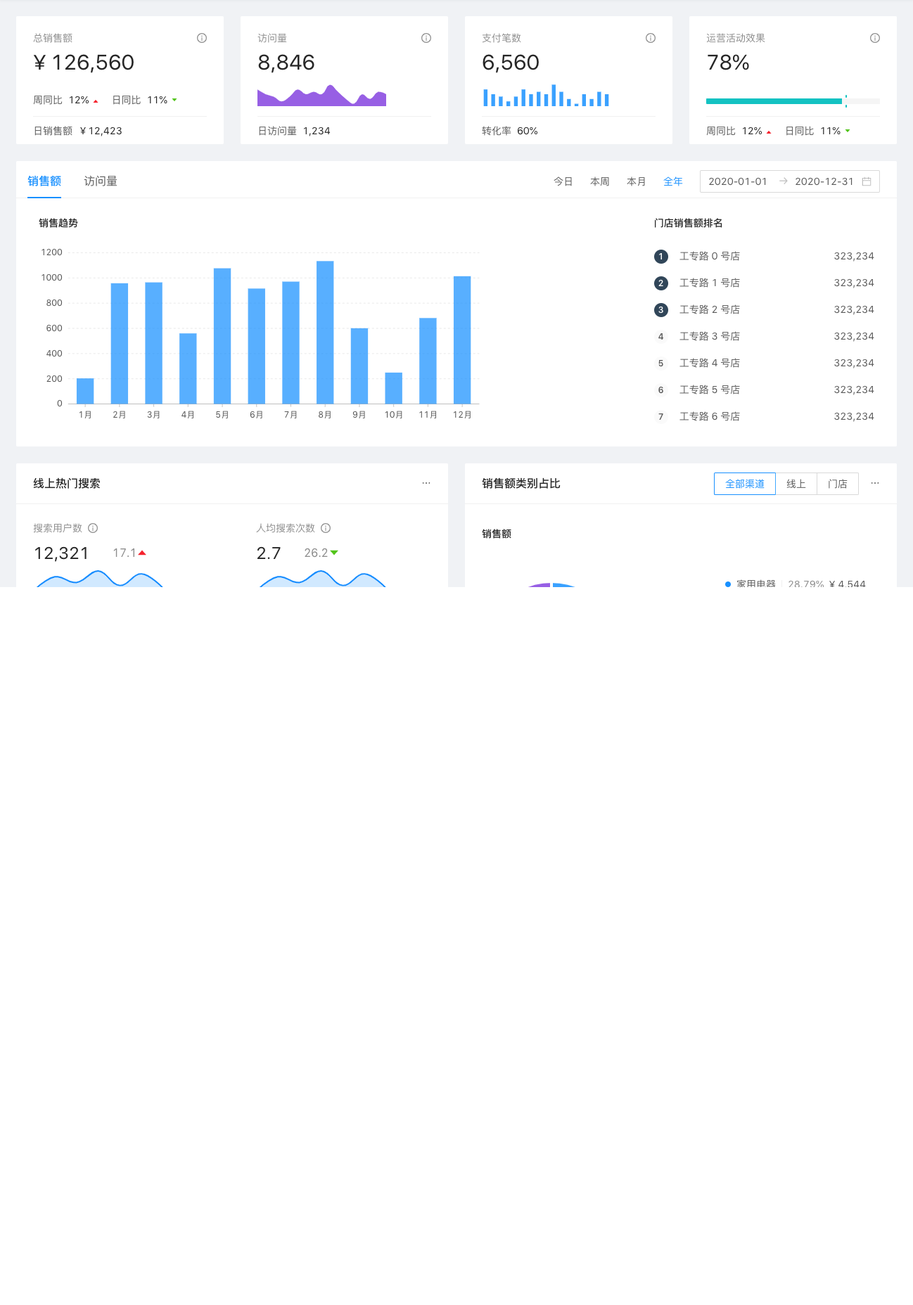
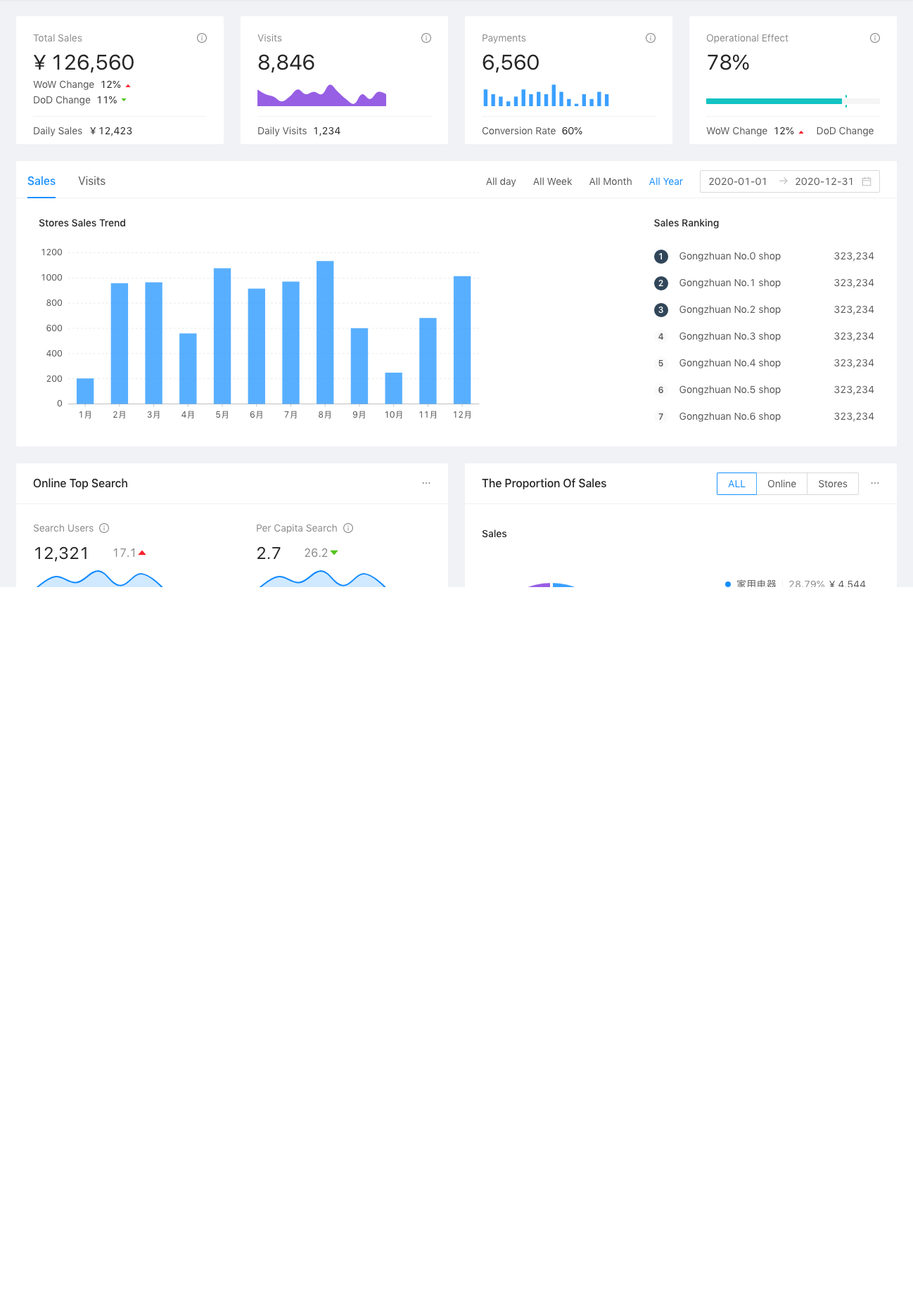
manual

diff --git a/src/service/fallback/umi-fallback.js b/src/service/fallback/umi-fallback.js
@@ -13,7 +13,11 @@ export default {
       "tags": [
         "空白页"
       ],
-      "previewUrl": "https://preview.pro.ant.design"
+      "previewUrl": "https://preview.pro.ant.design",
+      "__HASH__": [
+        "https://derek-hu.github.io/store/screenshots/umijs/0_a7c581ac.png"
+      ],
+      "__DESCRIPTION__": "Total Sales ¥ 126,560 WoW Change12%DoD Change11% Daily Sales￥12,423 Visits 8,846 Daily Visits1,234 Payments 6,560 Conversion Rate60% Operational Effect 78% WoW Change12%DoD Change11% All dayAll WeekAll MonthAll Year → SalesVisits Stores Sales Trend Sales Ranking 1 Gongzhuan No.0 shop 323,234 2 Gongzhuan No.1 shop 323,234 3 Gongzhuan No.2 shop 323,234 4 Gongzhuan No.3 shop 323,234 5 Gongzhuan No.4 shop 323,234 6 Gongzhuan No.5 shop 323,234 7 Gongzhuan No.6 shop 323,234 Online Top Search Search Users 12,32117.1 Per Capita Search 2.726.2 Rank Keyword Users Weekly Range 1 搜索关键词-0 596 56% 2 搜索关键词-1 647 47% 3 搜索关键词-2 260 16% 4 搜索关键词-3 97 16% 5 搜索关键词-4 582 52% 1 2 3 4 5 ••• 10 The Proportion Of Sales ALL Online Stores Sales Sales ¥ 15,781 家用电器28.79% ¥ 4,544 食用酒水21.04% ¥ 3,321 个护健康19.73% ¥ 3,113 服饰箱包14.83% ¥ 2,341 母婴产品7.80% ¥ 1,231 其他7.80% ¥ 1,231 Stores 0 Conversion Rate 40% Stores 1 Conversion Rate 70% Stores 2 Conversion Rate 10% Stores 3 Conversion Rate 30% Stores 4 Conversion Rate 30% Stores 5 Conversion Rate 10% Stores 6 Conversion Rate 60% Stores 7 Conversion Rate 80% Stores 8 Conversion Rate 90% Stores 9 Conversion Rate 40%"
     },
     {
       "name": "个人中心",
@@ -29,7 +33,11 @@ export default {
       "tags": [
         "个人中心"
       ],
-      "previewUrl": "https://preview.pro.ant.design/account/center"
+      "previewUrl": "https://preview.pro.ant.design/account/center",
+      "__HASH__": [
+        "https://derek-hu.github.io/store/screenshots/umijs/1_368ff13a.png"
+      ],
+      "__DESCRIPTION__": "Serati Ma 海纳百川，有容乃大 交互专家 蚂蚁金服－某某某事业群－某某平台部－某某技术部－UED 浙江省杭州市 标签 很有想法的专注设计辣~大长腿川妹子海纳百川 团队 科学搬砖组 全组都是吴彦祖 中二少女团 程序员日常 高逼格设计天团 骗你来学计算机 文章 (8)应用 (8)项目 (8) Alipay Ant Design设计语言蚂蚁金服 段落示意：蚂蚁金服设计平台 ant.design，用最小的工作量，无缝接入蚂蚁金服生态，提供跨越设计与开发的体验解决方案。蚂蚁金服设计平台 ant.design，用最小的工作量，无缝接入蚂蚁金服生态，提供跨越设计与开发的体验解决方案。 付小小 发布在 https://ant.design2020-03-29 23:08 149 165 13 Angular Ant Design设计语言蚂蚁金服 段落示意：蚂蚁金服设计平台 ant.design，用最小的工作量，无缝接入蚂蚁金服生态，提供跨越设计与开发的体验解决方案。蚂蚁金服设计平台 ant.design，用最小的工作量，无缝接入蚂蚁金服生态，提供跨越设计与开发的体验解决方案。 曲丽丽 发布在 https://ant.design2020-03-29 21:08 171 125 18 Ant Design Ant Design设计语言蚂蚁金服 段落示意：蚂蚁金服设计平台 ant.design，用最小的工作量，无缝接入蚂蚁金服生态，提供跨越设计与开发的体验解决方案。蚂蚁金服设计平台 ant.design，用最小的工作量，无缝接入蚂蚁金服生态，提供跨越设计与开发的体验解决方案。 林东东 发布在 https://ant.design2020-03-29 19:08 133 109 13 Ant Design Pro Ant Design设计语言蚂蚁金服 段落示意：蚂蚁金服设计平台 ant.design，用最小的工作量，无缝接入蚂蚁金服生态，提供跨越设计与开发的体验解决方案。蚂蚁金服设计平台 ant.design，用最小的工作量，无缝接入蚂蚁金服生态，提供跨越设计与开发的体验解决方案。 周星星 发布在 https://ant.design2020-03-29 17:08 178 127 19 Bootstrap Ant Design设计语言蚂蚁金服 段落示意：蚂蚁金服设计平台 ant.design，用最小的工作量，无缝接入蚂蚁金服生态，提供跨越设计与开发的体验解决方案。蚂蚁金服设计平台 ant.design，用最小的工作量，无缝接入蚂蚁金服生态，提供跨越设计与开发的体验解决方案。 吴加好 发布在 https://ant.design2020-03-29 15:08 184 131 14 React Ant Design设计语言蚂蚁金服 段落示意：蚂蚁金服设计平台 ant.design，用最小的工作量，无缝接入蚂蚁金服生态，提供跨越设计与开发的体验解决方案。蚂蚁金服设计平台 ant.design，用最小的工作量，无缝接入蚂蚁金服生态，提供跨越设计与开发的体验解决方案。 朱偏右 发布在 https://ant.design2020-03-29 13:08 109 105 19 Vue Ant Design设计语言蚂蚁金服 段落示意：蚂蚁金服设计平台 ant.design，用最小的工作量，无缝接入蚂蚁金服生态，提供跨越设计与开发的体验解决方案。蚂蚁金服设计平台 ant.design，用最小的工作量，无缝接入蚂蚁金服生态，提供跨越设计与开发的体验解决方案。 鱼酱 发布在 https://ant.design2020-03-29 11:08 179 186 12 Webpack Ant Design设计语言蚂蚁金服 段落示意：蚂蚁金服设计平台 ant.design，用最小的工作量，无缝接入蚂蚁金服生态，提供跨越设计与开发的体验解决方案。蚂蚁金服设计平台 ant.design，用最小的工作量，无缝接入蚂蚁金服生态，提供跨越设计与开发的体验解决方案。 乐哥 发布在 https://ant.design2020-03-29 09:08 144 106 11 Alipay Ant Design设计语言蚂蚁金服 段落示意：蚂蚁金服设计平台 ant.design，用最小的工作量，无缝接入蚂蚁金服生态，提供跨越设计与开发的体验解决方案。蚂蚁金服设计平台 ant.design，用最小的工作量，无缝接入蚂蚁金服生态，提供跨越设计与开发的体验解决方案。 谭小仪 发布在 https://ant.design2020-03-29 07:08 178 134 14 Angular Ant Design设计语言蚂蚁金服 段落示意：蚂蚁金服设计平台 ant.design，用最小的工作量，无缝接入蚂蚁金服生态，提供跨越设计与开发的体验解决方案。蚂蚁金服设计平台 ant.design，用最小的工作量，无缝接入蚂蚁金服生态，提供跨越设计与开发的体验解决方案。 仲尼 发布在 https://ant.design2020-03-29 05:08 133 191 13 Ant Design Ant Design设计语言蚂蚁金服 段落示意：蚂蚁金服设计平台 ant.design，用最小的工作量，无缝接入蚂蚁金服生态，提供跨越设计与开发的体验解决方案。蚂蚁金服设计平台 ant.design，用最小的工作量，无缝接入蚂蚁金服生态，提供跨越设计与开发的体验解决方案。 付小小 发布在 https://ant.design2020-03-29 03:08 151 128 11 Ant Design Pro Ant Design设计语言蚂蚁金服 段落示意：蚂蚁金服设计平台 ant.design，用最小的工作量，无缝接入蚂蚁金服生态，提供跨越设计与开发的体验解决方案。蚂蚁金服设计平台 ant.design，用最小的工作量，无缝接入蚂蚁金服生态，提供跨越设计与开发的体验解决方案。 曲丽丽 发布在 https://ant.design2020-03-29 01:08 121 117 16 Bootstrap Ant Design设计语言蚂蚁金服 段落示意：蚂蚁金服设计平台 ant.design，用最小的工作量，无缝接入蚂蚁金服生态，提供跨越设计与开发的体验解决方案。蚂蚁金服设计平台 ant.design，用最小的工作量，无缝接入蚂蚁金服生态，提供跨越设计与开发的体验解决方案。 林东东 发布在 https://ant.design2020-03-28 23:08 116 103 11 React Ant Design设计语言蚂蚁金服 段落示意：蚂蚁金服设计平台 ant.design，用最小的工作量，无缝接入蚂蚁金服生态，提供跨越设计与开发的体验解决方案。蚂蚁金服设计平台 ant.design，用最小的工作量，无缝接入蚂蚁金服生态，提供跨越设计与开发的体验解决方案。 周星星 发布在 https://ant.design2020-03-28 21:08 107 161 14 Vue Ant Design设计语言蚂蚁金服 段落示意：蚂蚁金服设计平台 ant.design，用最小的工作量，无缝接入蚂蚁金服生态，提供跨越设计与开发的体验解决方案。蚂蚁金服设计平台 ant.design，用最小的工作量，无缝接入蚂蚁金服生态，提供跨越设计与开发的体验解决方案。 吴加好 发布在 https://ant.design2020-03-28 19:08 192 159 20 Webpack Ant Design设计语言蚂蚁金服 段落示意：蚂蚁金服设计平台 ant.design，用最小的工作量，无缝接入蚂蚁金服生态，提供跨越设计与开发的体验解决方案。蚂蚁金服设计平台 ant.design，用最小的工作量，无缝接入蚂蚁金服生态，提供跨越设计与开发的体验解决方案。 朱偏右 发布在 https://ant.design2020-03-28 17:08 112 113 13 Alipay Ant Design设计语言蚂蚁金服 段落示意：蚂蚁金服设计平台 ant.design，用最小的工作量，无缝接入蚂蚁金服生态，提供跨越设计与开发的体验解决方案。蚂蚁金服设计平台 ant.design，用最小的工作量，无缝接入蚂蚁金服生态，提供跨越设计与开发的体验解决方案。 鱼酱 发布在 https://ant.design2020-03-28 15:08 162 133 11 Angular Ant Design设计语言蚂蚁金服 段落示意：蚂蚁金服设计平台 ant.design，用最小的工作量，无缝接入蚂蚁金服生态，提供跨越设计与开发的体验解决方案。蚂蚁金服设计平台 ant.design，用最小的工作量，无缝接入蚂蚁金服生态，提供跨越设计与开发的体验解决方案。 乐哥 发布在 https://ant.design2020-03-28 13:08 199 149 20 Ant Design Ant Design设计语言蚂蚁金服 段落示意：蚂蚁金服设计平台 ant.design，用最小的工作量，无缝接入蚂蚁金服生态，提供跨越设计与开发的体验解决方案。蚂蚁金服设计平台 ant.design，用最小的工作量，无缝接入蚂蚁金服生态，提供跨越设计与开发的体验解决方案。 谭小仪 发布在 https://ant.design2020-03-28 11:08 153 152 16 Ant Design Pro Ant Design设计语言蚂蚁金服 段落示意：蚂蚁金服设计平台 ant.design，用最小的工作量，无缝接入蚂蚁金服生态，提供跨越设计与开发的体验解决方案。蚂蚁金服设计平台 ant.design，用最小的工作量，无缝接入蚂蚁金服生态，提供跨越设计与开发的体验解决方案。 仲尼 发布在 https://ant.design2020-03-28 09:08 122 163 20"
     },
     {
       "name": "个人设置",
@@ -46,7 +54,11 @@ export default {
       "tags": [
         "个人设置"
       ],
-      "previewUrl": "https://preview.pro.ant.design/account/settings"
+      "previewUrl": "https://preview.pro.ant.design/account/settings",
+      "__HASH__": [
+        "https://derek-hu.github.io/store/screenshots/umijs/2_3584e26b.png"
+      ],
+      "__DESCRIPTION__": "Basic Settings Security Settings Account Binding New Message Notification Basic Settings Email Nickname Personal profile Country/Region 中国 Province or city 浙江省 杭州市 Street Address Phone Number Update Information Avatar Change avatar"
     },
     {
       "name": "分析页",
@@ -63,7 +75,11 @@ export default {
       "tags": [
         "dashboard"
       ],
-      "previewUrl": "https://preview.pro.ant.design/dashboard/analysis"
+      "previewUrl": "https://preview.pro.ant.design/dashboard/analysis",
+      "__HASH__": [
+        "https://derek-hu.github.io/store/screenshots/umijs/3_b541e65.png"
+      ],
+      "__DESCRIPTION__": "Total Sales ¥ 126,560 WoW Change12%DoD Change11% Daily Sales￥12,423 Visits 8,846 Daily Visits1,234 Payments 6,560 Conversion Rate60% Operational Effect 78% WoW Change12%DoD Change11% All dayAll WeekAll MonthAll Year → SalesVisits Stores Sales Trend Sales Ranking 1 Gongzhuan No.0 shop 323,234 2 Gongzhuan No.1 shop 323,234 3 Gongzhuan No.2 shop 323,234 4 Gongzhuan No.3 shop 323,234 5 Gongzhuan No.4 shop 323,234 6 Gongzhuan No.5 shop 323,234 7 Gongzhuan No.6 shop 323,234 Online Top Search Search Users 12,32117.1 Per Capita Search 2.726.2 Rank Keyword Users Weekly Range 1 搜索关键词-0 596 56% 2 搜索关键词-1 647 47% 3 搜索关键词-2 260 16% 4 搜索关键词-3 97 16% 5 搜索关键词-4 582 52% 1 2 3 4 5 ••• 10 The Proportion Of Sales ALL Online Stores Sales Sales ¥ 15,781 家用电器28.79% ¥ 4,544 食用酒水21.04% ¥ 3,321 个护健康19.73% ¥ 3,113 服饰箱包14.83% ¥ 2,341 母婴产品7.80% ¥ 1,231 其他7.80% ¥ 1,231 Stores 0 Conversion Rate 40% Stores 1 Conversion Rate 70% Stores 2 Conversion Rate 10% Stores 3 Conversion Rate 30% Stores 4 Conversion Rate 30% Stores 5 Conversion Rate 10% Stores 6 Conversion Rate 60% Stores 7 Conversion Rate 80% Stores 8 Conversion Rate 90% Stores 9 Conversion Rate 40%"
     },
     {
       "name": "监控页",
@@ -96,7 +112,11 @@ export default {
       "tags": [
         "dashboard"
       ],
-      "previewUrl": "https://preview.pro.ant.design/dashboard/workplace"
+      "previewUrl": "https://preview.pro.ant.design/dashboard/workplace",
+      "__HASH__": [
+        "https://derek-hu.github.io/store/screenshots/umijs/5_16660e61.png"
+      ],
+      "__DESCRIPTION__": "Home/Dashboard/Workplace Workplace 早安，Serati Ma，祝你开心每一天！ 交互专家 |蚂蚁金服－某某某事业群－某某平台部－某某技术部－UED 项目数 56 团队内排名 8/ 24 项目访问 2,223 进行中的项目 全部项目 Alipay 那是一种内在的东西，他们到达不了，也无法触及的 科学搬砖组 9 天前 Angular 希望是一个好东西，也许是最好的，好东西是不会消亡的 全组都是吴彦祖 3 年前 Ant Design 城镇中有那么多的酒馆，她却偏偏走进了我的酒馆 中二少女团 9 天前 Ant Design Pro 那时候我只会想自己想要什么，从不想自己拥有什么 程序员日常 3 年前 Bootstrap 凛冬将至 高逼格设计天团 3 年前 React 生命就像一盒巧克力，结果往往出人意料 骗你来学计算机 3 年前 动态 曲丽丽 在 高逼格设计天团 新建项目 六月迭代 9 天前 付小小 在 高逼格设计天团 新建项目 六月迭代 9 天前 林东东 在 中二少女团 新建项目 六月迭代 9 天前 周星星 将 5 月日常迭代 更新至已发布状态 9 天前 朱偏右 在 工程效能 发布了 留言 9 天前 乐哥 在 程序员日常 新建项目 品牌迭代 9 天前 快速开始 / 便捷导航 操作一操作二操作三操作四操作五操作六添加 XX 指数 个人 34 团队 22 部门 23 团队 科学搬砖组 全组都是吴彦祖 中二少女团 程序员日常 高逼格设计天团 骗你来学计算机"
     },
     {
       "name": "流程编辑器",
@@ -112,7 +132,11 @@ export default {
       "tags": [
         "图形编辑"
       ],
-      "previewUrl": "https://preview.pro.ant.design/editor/flow"
+      "previewUrl": "https://preview.pro.ant.design/editor/flow",
+      "__HASH__": [
+        "https://derek-hu.github.io/store/screenshots/umijs/6_9df14a66.png"
+      ],
+      "__DESCRIPTION__": "Home/Graphic Editor/Flow Editor Flow Editor The flow chart is an excellent way to represent the idea of the algorithm Canvas Minimap"
     },
     {
       "name": "拓扑编辑器",
@@ -128,7 +152,11 @@ export default {
       "tags": [
         "图形编辑"
       ],
-      "previewUrl": "https://preview.pro.ant.design/editor/koni"
+      "previewUrl": "https://preview.pro.ant.design/editor/koni",
+      "__HASH__": [
+        "https://derek-hu.github.io/store/screenshots/umijs/7_560bfc3.png"
+      ],
+      "__DESCRIPTION__": "Home/Graphic Editor/Koni Editor Koni Editor The topology diagram refers to the network structure diagram composed of network node devices and communication media Canvas Minimap"
     },
     {
       "name": "脑图编辑器",
@@ -144,7 +172,11 @@ export default {
       "tags": [
         "图形编辑"
       ],
-      "previewUrl": "https://preview.pro.ant.design/editor/mind"
+      "previewUrl": "https://preview.pro.ant.design/editor/mind",
+      "__HASH__": [
+        "https://derek-hu.github.io/store/screenshots/umijs/8_764a11c0.png"
+      ],
+      "__DESCRIPTION__": "Home/Graphic Editor/Mind Editor Mind Editor The brain map is an effective graphical thinking tool for expressing divergent thinking. It is simple but effective and is a practical thinking tool Canvas Minimap"
     },
     {
       "name": "403",
@@ -160,7 +192,11 @@ export default {
       "tags": [
         "异常"
       ],
-      "previewUrl": "https://preview.pro.ant.design/exception/403"
+      "previewUrl": "https://preview.pro.ant.design/exception/403",
+      "__HASH__": [
+        "https://derek-hu.github.io/store/screenshots/umijs/9_601ae0ca.png"
+      ],
+      "__DESCRIPTION__": "403 Sorry, you don't have access to this page. Back to home"
     },
     {
       "name": "404",
@@ -176,7 +212,11 @@ export default {
       "tags": [
         "异常"
       ],
-      "previewUrl": "https://preview.pro.ant.design/exception/404"
+      "previewUrl": "https://preview.pro.ant.design/exception/404",
+      "__HASH__": [
+        "https://derek-hu.github.io/store/screenshots/umijs/10_927f5b4b.png"
+      ],
+      "__DESCRIPTION__": "404 Sorry, the page you visited does not exist. Back Home"
     },
     {
       "name": "500",
@@ -192,7 +232,11 @@ export default {
       "tags": [
         "异常"
       ],
-      "previewUrl": "https://preview.pro.ant.design/exception/500"
+      "previewUrl": "https://preview.pro.ant.design/exception/500",
+      "__HASH__": [
+        "https://derek-hu.github.io/store/screenshots/umijs/11_a50d87f6.png"
+      ],
+      "__DESCRIPTION__": "500 Sorry, the server is reporting an error. Back Home"
     },
     {
       "name": "高级表单",
@@ -209,7 +253,11 @@ export default {
         "表单",
         "高级"
       ],
-      "previewUrl": "https://preview.pro.ant.design/form/advanced/form"
+      "previewUrl": "https://preview.pro.ant.design/form/advanced/form",
+      "__HASH__": [
+        "https://derek-hu.github.io/store/screenshots/umijs/12_bfb9d244.png"
+      ],
+      "__DESCRIPTION__": ""
     },
     {
       "name": "基础表单",
@@ -227,7 +275,11 @@ export default {
         "表单",
         "基本"
       ],
-      "previewUrl": "https://preview.pro.ant.design/form/basic/form"
+      "previewUrl": "https://preview.pro.ant.design/form/basic/form",
+      "__HASH__": [
+        "https://derek-hu.github.io/store/screenshots/umijs/13_52c37b15.png"
+      ],
+      "__DESCRIPTION__": ""
     },
     {
       "name": "分步表单",
@@ -244,7 +296,11 @@ export default {
       "tags": [
         "表单"
       ],
-      "previewUrl": "https://preview.pro.ant.design/form/step/form"
+      "previewUrl": "https://preview.pro.ant.design/form/step/form",
+      "__HASH__": [
+        "https://derek-hu.github.io/store/screenshots/umijs/14_bf2cfca5.png"
+      ],
+      "__DESCRIPTION__": ""
     },
     {
       "name": "标准列表",
@@ -261,7 +317,11 @@ export default {
         "列表",
         "基本"
       ],
-      "previewUrl": "https://preview.pro.ant.design/list/basic/list"
+      "previewUrl": "https://preview.pro.ant.design/list/basic/list",
+      "__HASH__": [
+        "https://derek-hu.github.io/store/screenshots/umijs/15_2dbaec1f.png"
+      ],
+      "__DESCRIPTION__": ""
     },
     {
       "name": "卡片列表",
@@ -277,7 +337,11 @@ export default {
       "tags": [
         "列表"
       ],
-      "previewUrl": "https://preview.pro.ant.design/list/card/list"
+      "previewUrl": "https://preview.pro.ant.design/list/card/list",
+      "__HASH__": [
+        "https://derek-hu.github.io/store/screenshots/umijs/16_60252da2.png"
+      ],
+      "__DESCRIPTION__": ""
     },
     {
       "name": "搜索列表",
@@ -293,7 +357,11 @@ export default {
         "列表",
         "搜索"
       ],
-      "previewUrl": "https://preview.pro.ant.design/list/search"
+      "previewUrl": "https://preview.pro.ant.design/list/search",
+      "__HASH__": [
+        "https://derek-hu.github.io/store/screenshots/umijs/17_9c4fe77e.png"
+      ],
+      "__DESCRIPTION__": "Home/List/Search List/Search List(articles) Search List(articles) 搜 索 文章项目应用 所属类目 全部类目一类目二类目三类目四类目五类目六类目七类目八类目九类目十类目十一类目十二 展开 owner 吴家豪 周星星 只看自己的 其它选项 活跃用户 不限 好评度 不限 Alipay Ant Design设计语言蚂蚁金服 段落示意：蚂蚁金服设计平台 ant.design，用最小的工作量，无缝接入蚂蚁金服生态，提供跨越设计与开发的体验解决方案。蚂蚁金服设计平台 ant.design，用最小的工作量，无缝接入蚂蚁金服生态，提供跨越设计与开发的体验解决方案。 付小小 发布在 https://ant.design2020-03-29 23:11 106 103 15 Angular Ant Design设计语言蚂蚁金服 段落示意：蚂蚁金服设计平台 ant.design，用最小的工作量，无缝接入蚂蚁金服生态，提供跨越设计与开发的体验解决方案。蚂蚁金服设计平台 ant.design，用最小的工作量，无缝接入蚂蚁金服生态，提供跨越设计与开发的体验解决方案。 曲丽丽 发布在 https://ant.design2020-03-29 21:11 192 113 19 Ant Design Ant Design设计语言蚂蚁金服 段落示意：蚂蚁金服设计平台 ant.design，用最小的工作量，无缝接入蚂蚁金服生态，提供跨越设计与开发的体验解决方案。蚂蚁金服设计平台 ant.design，用最小的工作量，无缝接入蚂蚁金服生态，提供跨越设计与开发的体验解决方案。 林东东 发布在 https://ant.design2020-03-29 19:11 157 151 19 Ant Design Pro Ant Design设计语言蚂蚁金服 段落示意：蚂蚁金服设计平台 ant.design，用最小的工作量，无缝接入蚂蚁金服生态，提供跨越设计与开发的体验解决方案。蚂蚁金服设计平台 ant.design，用最小的工作量，无缝接入蚂蚁金服生态，提供跨越设计与开发的体验解决方案。 周星星 发布在 https://ant.design2020-03-29 17:11 170 171 18 Bootstrap Ant Design设计语言蚂蚁金服 段落示意：蚂蚁金服设计平台 ant.design，用最小的工作量，无缝接入蚂蚁金服生态，提供跨越设计与开发的体验解决方案。蚂蚁金服设计平台 ant.design，用最小的工作量，无缝接入蚂蚁金服生态，提供跨越设计与开发的体验解决方案。 吴加好 发布在 https://ant.design2020-03-29 15:11 112 163 14 加载更多"
     },
     {
       "name": "搜索列表（应用）",
@@ -310,7 +378,11 @@ export default {
         "列表",
         "搜索"
       ],
-      "previewUrl": "https://preview.pro.ant.design/list/search/applications"
+      "previewUrl": "https://preview.pro.ant.design/list/search/applications",
+      "__HASH__": [
+        "https://derek-hu.github.io/store/screenshots/umijs/18_7aaaa24b.png"
+      ],
+      "__DESCRIPTION__": "Home/List/Search List/Search List(applications) Search List(applications) 搜 索 文章项目应用 所属类目 全部类目一类目二类目三类目四类目五类目六类目七类目八类目九类目十类目十一类目十二 展开 其它选项 作者 不限 好评度 不限 Alipay 活跃用户 10万 新增用户 1,625 Angular 活跃用户 10万 新增用户 1,442 Ant Design 活跃用户 19万 新增用户 1,760 Ant Design Pro 活跃用户 13万 新增用户 1,869 Bootstrap 活跃用户 14万 新增用户 1,846 React 活跃用户 11万 新增用户 1,045 Vue 活跃用户 16万 新增用户 1,019 Webpack 活跃用户 12万 新增用户 1,040"
     },
     {
       "name": "搜索列表（文章）",
@@ -327,7 +399,11 @@ export default {
         "列表",
         "搜索"
       ],
-      "previewUrl": "https://preview.pro.ant.design/list/search/articles"
+      "previewUrl": "https://preview.pro.ant.design/list/search/articles",
+      "__HASH__": [
+        "https://derek-hu.github.io/store/screenshots/umijs/19_f98af825.png"
+      ],
+      "__DESCRIPTION__": "Home/List/Search List/Search List(articles) Search List(articles) 搜 索 文章项目应用 所属类目 全部类目一类目二类目三类目四类目五类目六类目七类目八类目九类目十类目十一类目十二 展开 owner 吴家豪 周星星 只看自己的 其它选项 活跃用户 不限 好评度 不限 Alipay Ant Design设计语言蚂蚁金服 段落示意：蚂蚁金服设计平台 ant.design，用最小的工作量，无缝接入蚂蚁金服生态，提供跨越设计与开发的体验解决方案。蚂蚁金服设计平台 ant.design，用最小的工作量，无缝接入蚂蚁金服生态，提供跨越设计与开发的体验解决方案。 付小小 发布在 https://ant.design2020-03-29 23:11 184 124 14 Angular Ant Design设计语言蚂蚁金服 段落示意：蚂蚁金服设计平台 ant.design，用最小的工作量，无缝接入蚂蚁金服生态，提供跨越设计与开发的体验解决方案。蚂蚁金服设计平台 ant.design，用最小的工作量，无缝接入蚂蚁金服生态，提供跨越设计与开发的体验解决方案。 曲丽丽 发布在 https://ant.design2020-03-29 21:11 130 172 20 Ant Design Ant Design设计语言蚂蚁金服 段落示意：蚂蚁金服设计平台 ant.design，用最小的工作量，无缝接入蚂蚁金服生态，提供跨越设计与开发的体验解决方案。蚂蚁金服设计平台 ant.design，用最小的工作量，无缝接入蚂蚁金服生态，提供跨越设计与开发的体验解决方案。 林东东 发布在 https://ant.design2020-03-29 19:11 122 134 11 Ant Design Pro Ant Design设计语言蚂蚁金服 段落示意：蚂蚁金服设计平台 ant.design，用最小的工作量，无缝接入蚂蚁金服生态，提供跨越设计与开发的体验解决方案。蚂蚁金服设计平台 ant.design，用最小的工作量，无缝接入蚂蚁金服生态，提供跨越设计与开发的体验解决方案。 周星星 发布在 https://ant.design2020-03-29 17:11 154 125 18 Bootstrap Ant Design设计语言蚂蚁金服 段落示意：蚂蚁金服设计平台 ant.design，用最小的工作量，无缝接入蚂蚁金服生态，提供跨越设计与开发的体验解决方案。蚂蚁金服设计平台 ant.design，用最小的工作量，无缝接入蚂蚁金服生态，提供跨越设计与开发的体验解决方案。 吴加好 发布在 https://ant.design2020-03-29 15:11 148 198 16 加载更多"
     },
     {
       "name": "搜索列表（项目）",
@@ -344,7 +420,11 @@ export default {
         "列表",
         "搜索"
       ],
-      "previewUrl": "https://preview.pro.ant.design/list/search/projects"
+      "previewUrl": "https://preview.pro.ant.design/list/search/projects",
+      "__HASH__": [
+        "https://derek-hu.github.io/store/screenshots/umijs/20_8b12fec3.png"
+      ],
+      "__DESCRIPTION__": "Home/List/Search List/Search List(projects) Search List(projects) 搜 索 文章项目应用 所属类目 全部类目一类目二类目三类目四类目五类目六类目七类目八类目九类目十类目十一类目十二 展开 其它选项 作者 不限 好评度 不限 Alipay 那是一种内在的东西， 他们到达不了，也无法触及的 幾秒前 Angular 希望是一个好东西，也许是最好的，好东西是不会消亡的 2 小時前 Ant Design 生命就像一盒巧克力，结果往往出人意料 4 小時前 Ant Design Pro 城镇中有那么多的酒馆，她却偏偏走进了我的酒馆 6 小時前 Bootstrap 那时候我只会想自己想要什么，从不想自己拥有什么 8 小時前 React 那是一种内在的东西， 他们到达不了，也无法触及的 10 小時前 Vue 希望是一个好东西，也许是最好的，好东西是不会消亡的 12 小時前 Webpack 生命就像一盒巧克力，结果往往出人意料 14 小時前"
     },
     {
       "name": "查询表格",
@@ -360,7 +440,11 @@ export default {
         "列表",
         "表格"
       ],
-      "previewUrl": "https://preview.pro.ant.design/list/table/list"
+      "previewUrl": "https://preview.pro.ant.design/list/table/list",
+      "__HASH__": [
+        "https://derek-hu.github.io/store/screenshots/umijs/21_fa46c3bc.png"
+      ],
+      "__DESCRIPTION__": ""
     },
     {
       "name": "高级详情页",
@@ -377,7 +461,11 @@ export default {
         "详情",
         "高级"
       ],
-      "previewUrl": "https://preview.pro.ant.design/profile/advanced"
+      "previewUrl": "https://preview.pro.ant.design/profile/advanced",
+      "__HASH__": [
+        "https://derek-hu.github.io/store/screenshots/umijs/22_bf8d9b10.png"
+      ],
+      "__DESCRIPTION__": "Home/Profile/Advanced Profile 单号：234231029431 操作一操作二主操作 创建人曲丽丽 订购产品XX 服务 创建时间2017-07-07 关联单据12421 生效日期2017-07-07 ~ 2017-08-08 备注请于两个工作日内确认 状态 待审批 订单金额 ¥568.08 详情规则 流程进度 创建项目 曲丽丽 2016-12-12 12:32 部门初审 周毛毛 催一下 财务复核 完成 用户信息 用户姓名付小小 会员卡号32943898021309809423 身份证3321944288191034921 联系方式18112345678 联系地址曲丽丽 18100000000 浙江省杭州市西湖区黄姑山路工专路交叉路口 信息组 某某数据725 该数据更新时间2017-08-08 某某数据725 该数据更新时间2017-08-08 信息组 多层级信息组 组名称 负责人林东东 角色码1234567 所属部门XX公司 - YY部 过期时间2017-08-08 描述这段描述很长很长很长很长很长很长很长很长很长很长很长很长很长很长... 组名称 学名Citrullus lanatus (Thunb.) Matsum. et Nakai一年生蔓生藤本；茎、枝粗壮，具明显的棱。卷须较粗.. 组名称 负责人付小小 角色码1234568 用户近半年来电记录 No Data 操作日志一操作日志二操作日志三 操作类型 操作人 执行结果 操作时间 备注 订购关系生效 曲丽丽 成功 2017-10-03 19:23:12 - 财务复审 付小小 驳回 2017-10-03 19:23:12 不通过原因 部门初审 周毛毛 成功 2017-10-03 19:23:12 - 提交订单 林东东 成功 2017-10-03 19:23:12 很棒 创建订单 汗牙牙 成功 2017-10-03 19:23:12 -"
     },
     {
       "name": "基础详情页",
@@ -394,7 +482,11 @@ export default {
         "详情",
         "基本"
       ],
-      "previewUrl": "https://preview.pro.ant.design/profile/basic"
+      "previewUrl": "https://preview.pro.ant.design/profile/basic",
+      "__HASH__": [
+        "https://derek-hu.github.io/store/screenshots/umijs/23_e728b2cd.png"
+      ],
+      "__DESCRIPTION__": "Home/Profile/Basic Profile Basic Profile 退款申请 取货单号1000000000 状态已取货 销售单号1234123421 子订单3214321432 用户信息 用户姓名付小小 联系电话18100000000 常用快递菜鸟仓储 取货地址浙江省杭州市西湖区万塘路18号 备注无 退货商品 商品编号 商品名称 商品条码 单价 数量（件） 金额 1234561 矿泉水 550ml 12421432143214321 2.00 1 2.00 1234562 凉茶 300ml 12421432143214322 3.00 2 6.00 1234563 好吃的薯片 12421432143214323 7.00 4 28.00 1234564 特别好吃的蛋卷 12421432143214324 8.50 3 25.50 总计 10 61.5 退货进度 时间 当前进度 状态 操作员ID 耗时 2017-10-01 14:10 联系客户 进行中 取货员 ID1234 5mins 2017-10-01 14:05 取货员出发 成功 取货员 ID1234 1h 2017-10-01 13:05 取货员接单 成功 取货员 ID1234 5mins 2017-10-01 13:00 申请审批通过 成功 系统 1h 2017-10-01 12:00 发起退货申请 成功 用户 5mins"
     },
     {
       "name": "失败页",
@@ -410,7 +502,11 @@ export default {
       "tags": [
         "结果"
       ],
-      "previewUrl": "https://preview.pro.ant.design/result/fail"
+      "previewUrl": "https://preview.pro.ant.design/result/fail",
+      "__HASH__": [
+        "https://derek-hu.github.io/store/screenshots/umijs/24_bbdf1d0c.png"
+      ],
+      "__DESCRIPTION__": "Submission Failed Please check and modify the following information before resubmitting. The content you submitted has the following error: Your account has been frozenThaw immediately Your account is not yet eligible to applyUpgrade immediately Return to modify"
     },
     {
       "name": "成功页",
@@ -426,7 +522,11 @@ export default {
       "tags": [
         "结果"
       ],
-      "previewUrl": "https://preview.pro.ant.design/result/success"
+      "previewUrl": "https://preview.pro.ant.design/result/success",
+      "__HASH__": [
+        "https://derek-hu.github.io/store/screenshots/umijs/25_107f0845.png"
+      ],
+      "__DESCRIPTION__": "Submission Success The submission results page is used to feed back the results of a series of operational tasks. If it is a simple operation, use the Message global prompt feedback. This text area can show a simple supplementary explanation. If there is a similar requirement for displaying “documents”, the following gray area can present more complicated content. Project Name Project ID23421 PrincipalQu Lili Effective time2016-12-12 ~ 2017-12-12 Create project Qu Lili 2016-12-12 12:32 Departmental preliminary review Zhou MaomaoUrge Financial review Finish Back ListView ProjectPrint"
     },
     {
       "name": "登录页",
